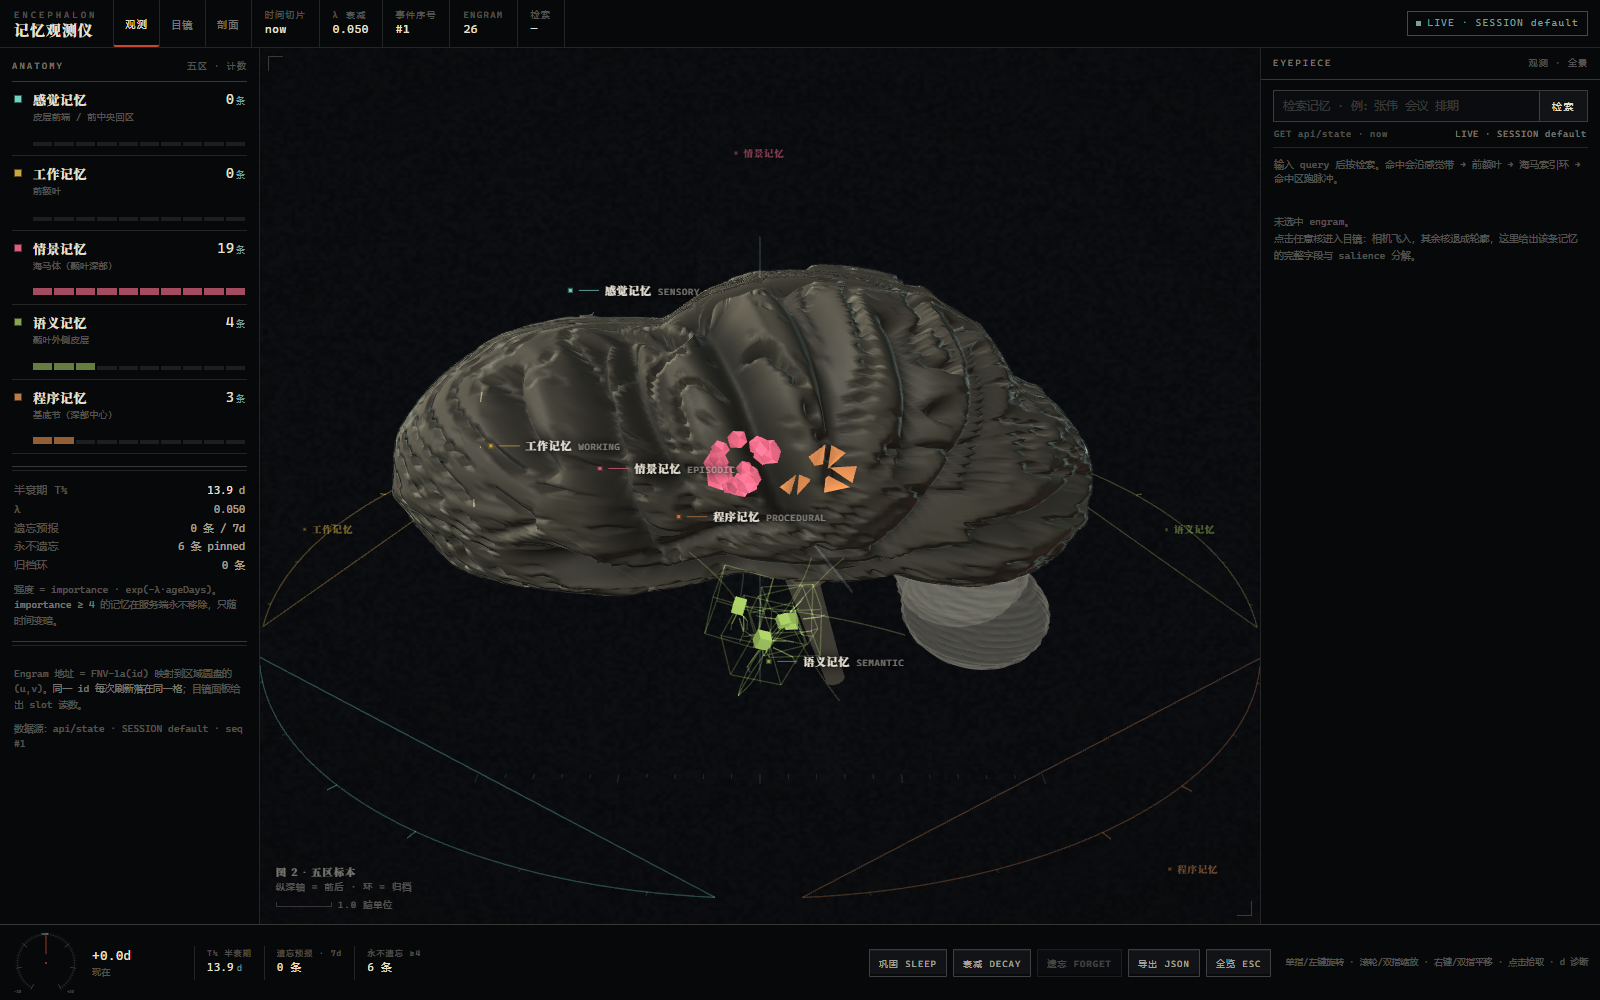
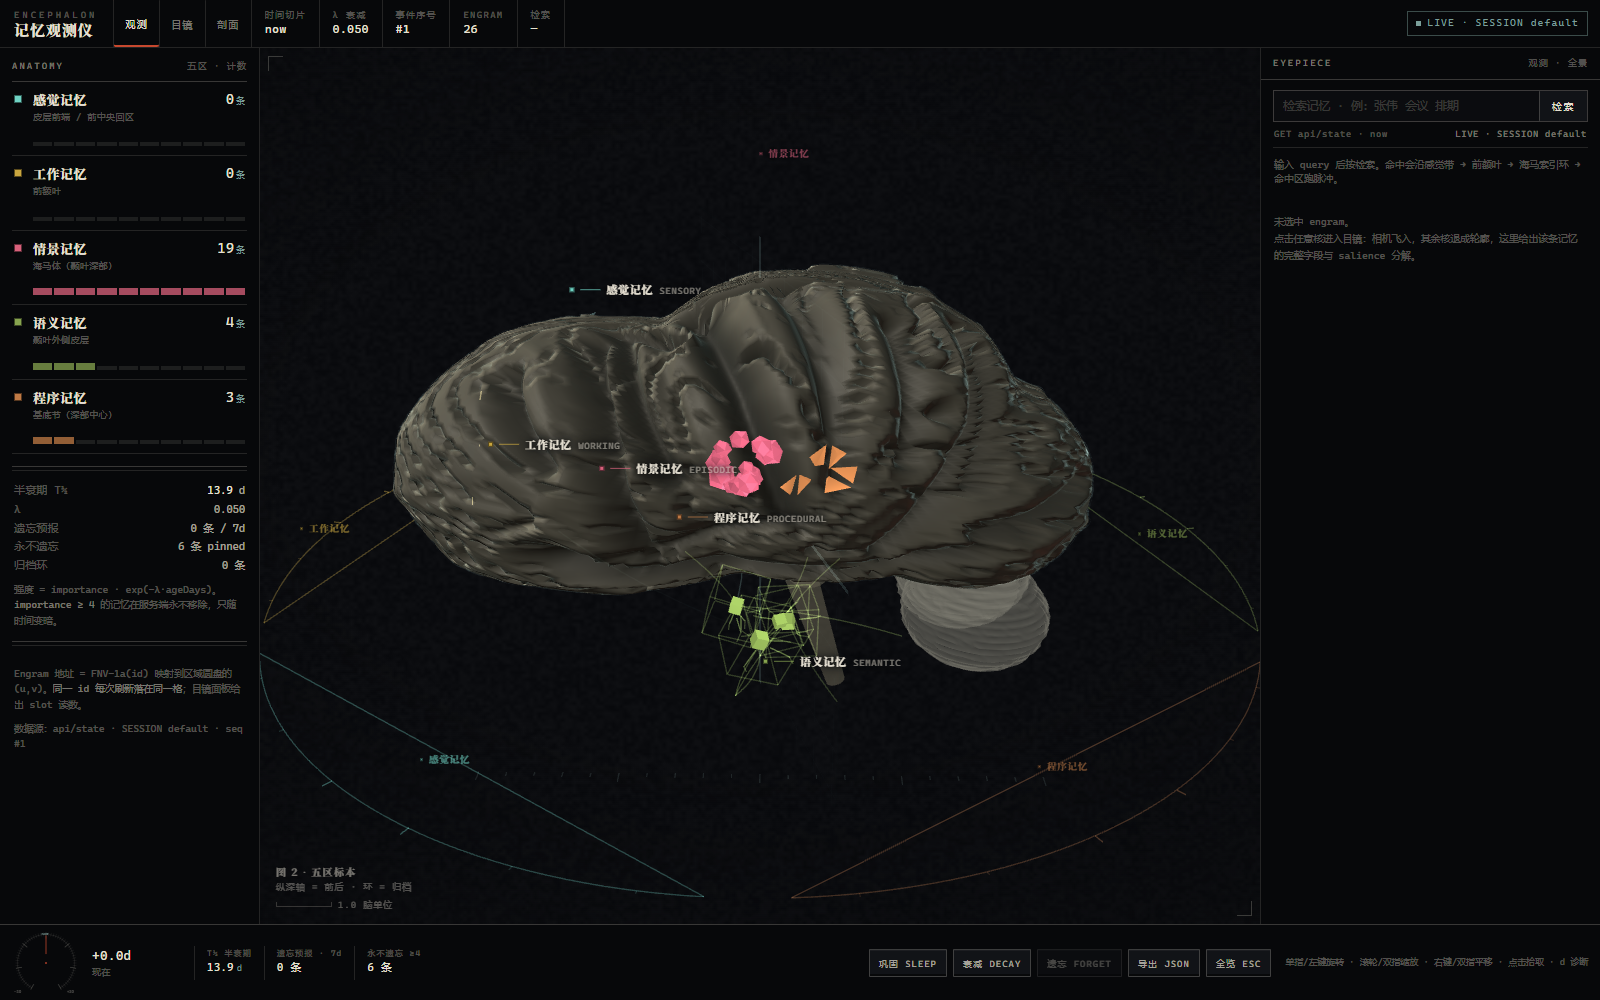
feat(3d): 扇区标签固定环位（五个常显）+ 密集事件动画预算与 toast 合并

diff --git a/dist/deepseek-brain-3d.html b/dist/deepseek-brain-3d.html
@@ -1388,6 +1388,7 @@ globalThis.THREE=Object.freeze({ACESFilmicToneMapping:nt,AddEquation:M,AddOperat
   var traces = [];
 
   function spawnTrace(path, color, delay, dur, alpha, tail, width) {
+    if (APP.animGate === false) return;
     if (!path || path.length < 2) return;
     if (traces.length > 24) traces.shift();
     traces.push({ path: path, color: color, t: -(delay || 0), dur: dur || 0.8,
@@ -1990,8 +1991,10 @@ globalThis.THREE=Object.freeze({ACESFilmicToneMapping:nt,AddEquation:M,AddOperat
 
   /* ============================== pulses (topK) ============================== */
   var pulses = [];
+  APP.animGate = true;
   function spawnPulse(path, color, size, dur, delay) {
     if (!path || path.length < 2) return;
+    if (APP.animGate === false) return;
     if (pulses.length >= PULSE_MAX) pulses.shift();
     pulses.push({ path: path, t: -(delay || 0), dur: dur || 0.55, color: color, size: size || 0.05 });
   }
@@ -2275,20 +2278,16 @@ globalThis.THREE=Object.freeze({ACESFilmicToneMapping:nt,AddEquation:M,AddOperat
       var p3 = archivePoint(mid).multiplyScalar(1 + 0.26 / TUNING.ARCHIVE_R);
       _proj.copy(p3).project(camera);
       if (_proj.z > 1) { item.el.style.opacity = '0'; return; }
-      var sx = (_proj.x * 0.5 + 0.5) * w, sy = (-_proj.y * 0.5 + 0.5) * h;
-      /* 扇区被脑体挡住时，把标签沿屏幕径向推到标本外圈，别压在沟回上 */
-      var cx = w * 0.5, cy = h * 0.52;
-      var dx = sx - cx, dy = sy - cy;
-      var dmin = Math.min(w, h) * 0.42;
-      var dcur = Math.sqrt(dx * dx + dy * dy) || 1;
-      if (dcur < dmin) {
-        var k = dmin / dcur;
-        sx = cx + dx * k; sy = cy + dy * k;
-      }
-      /* 左下角是图注区，别把标签压上去 */
-      if (sx < w * 0.40 && sy > h * 0.84) { item.el.style.opacity = '0'; return; }
-      sx = clamp(sx, 10, Math.max(10, w - 60));
-      sy = clamp(sy, 10, h - 12);
+      /* 方向来自扇区中点的投影（会跟着相机转），半径固定：
+         五个标签永远落在标本外的一圈上——不遮脑体、不互相压、不撞左下角图注 */
+      var cx = w * 0.5, cy = h * 0.50;
+      var rx = w * 0.46, ry = h * 0.40;
+      var dx = (_proj.x * 0.5 + 0.5) * w - cx;
+      var dy = (-_proj.y * 0.5 + 0.5) * h - cy;
+      if (Math.abs(dx) < 1e-3 && Math.abs(dy) < 1e-3) { dx = 0; dy = 1; }
+      var el2 = Math.sqrt((dx / rx) * (dx / rx) + (dy / ry) * (dy / ry)) || 1;
+      var sx = clamp(cx + dx / el2, 66, Math.max(66, w - 96));
+      var sy = clamp(cy + dy / el2, 30, h - 74);
       item.el.style.opacity = '0.72';
       item.el.style.transform = 'translate(' + (sx - 26).toFixed(1) + 'px,' + (sy + 8).toFixed(1) + 'px)';
     });
@@ -2305,10 +2304,29 @@ globalThis.THREE=Object.freeze({ACESFilmicToneMapping:nt,AddEquation:M,AddOperat
   /* ============================== UI: read-outs ============================== */
   function toast(msg, kind) {
     var el = $('toast');
-    el.textContent = msg;
+    var now = (window.performance && performance.now) ? performance.now() : Date.now();
+    if (now - toast._at < 300 && toast._base) {
+      toast._extra += 1;
+      el.textContent = toast._base + ' · +' + toast._extra;
+    } else {
+      toast._base = msg;
+      toast._extra = 0;
+      el.textContent = msg;
+    }
+    toast._at = now;
     el.className = 'show' + (kind ? ' ' + kind : '');
     clearTimeout(toast._t);
-    toast._t = setTimeout(function () { el.className = ''; }, 2600);
+    toast._t = setTimeout(function () { el.className = ''; toast._base = ''; }, 2600);
+  }
+
+  /* 密集事件时宁可少两段动画，也不让画面被同时起飞的 engram 与 toast 糊住 */
+  var ANIM_WINDOW_MS = 500, ANIM_MAX = 6;
+  APP.anim = { t: 0, n: 0 };
+  function animAllowed() {
+    var now = (window.performance && performance.now) ? performance.now() : Date.now();
+    if (now - APP.anim.t > ANIM_WINDOW_MS) { APP.anim.t = now; APP.anim.n = 0; }
+    APP.anim.n += 1;
+    return APP.anim.n <= ANIM_MAX;
   }
 
   function setStatus(left, right, kind) {
@@ -3176,6 +3194,11 @@ globalThis.THREE=Object.freeze({ACESFilmicToneMapping:nt,AddEquation:M,AddOperat
 
   function ingestEvent(ev, demo) {
     if (!ev || !ev.kind) return;
+    APP.animGate = animAllowed();
+    try { ingestEventInner(ev, demo); } finally { APP.animGate = true; }
+  }
+
+  function ingestEventInner(ev, demo) {
     var prefix = demo ? '演示 · ' : '';
     var kind = ev.kind;
     if (kind === 'observe') {
@@ -3224,7 +3247,7 @@ globalThis.THREE=Object.freeze({ACESFilmicToneMapping:nt,AddEquation:M,AddOperat
     } else if (kind === 'forget') {
       var rec = APP.model && APP.model.byId[ev.id];
       if (rec) {
-        APP.moving.push({ rec: rec, t: 0, dur: 1.0, from: rec.pos.clone(),
+        if (APP.moving.length < 10) APP.moving.push({ rec: rec, t: 0, dur: 1.0, from: rec.pos.clone(),
           to: archivePoint(archiveAngle(rec.layer, rec.slot.u || 0.5)), fade: true });
       }
       toast(prefix + 'forget · ' + truncate(ev.title || ev.id || '', 24));

diff --git a/web/brain-3d.html b/web/brain-3d.html
@@ -1376,6 +1376,7 @@
   var traces = [];
 
   function spawnTrace(path, color, delay, dur, alpha, tail, width) {
+    if (APP.animGate === false) return;
     if (!path || path.length < 2) return;
     if (traces.length > 24) traces.shift();
     traces.push({ path: path, color: color, t: -(delay || 0), dur: dur || 0.8,
@@ -1978,8 +1979,10 @@
 
   /* ============================== pulses (topK) ============================== */
   var pulses = [];
+  APP.animGate = true;
   function spawnPulse(path, color, size, dur, delay) {
     if (!path || path.length < 2) return;
+    if (APP.animGate === false) return;
     if (pulses.length >= PULSE_MAX) pulses.shift();
     pulses.push({ path: path, t: -(delay || 0), dur: dur || 0.55, color: color, size: size || 0.05 });
   }
@@ -2263,20 +2266,16 @@
       var p3 = archivePoint(mid).multiplyScalar(1 + 0.26 / TUNING.ARCHIVE_R);
       _proj.copy(p3).project(camera);
       if (_proj.z > 1) { item.el.style.opacity = '0'; return; }
-      var sx = (_proj.x * 0.5 + 0.5) * w, sy = (-_proj.y * 0.5 + 0.5) * h;
-      /* 扇区被脑体挡住时，把标签沿屏幕径向推到标本外圈，别压在沟回上 */
-      var cx = w * 0.5, cy = h * 0.52;
-      var dx = sx - cx, dy = sy - cy;
-      var dmin = Math.min(w, h) * 0.42;
-      var dcur = Math.sqrt(dx * dx + dy * dy) || 1;
-      if (dcur < dmin) {
-        var k = dmin / dcur;
-        sx = cx + dx * k; sy = cy + dy * k;
-      }
-      /* 左下角是图注区，别把标签压上去 */
-      if (sx < w * 0.40 && sy > h * 0.84) { item.el.style.opacity = '0'; return; }
-      sx = clamp(sx, 10, Math.max(10, w - 60));
-      sy = clamp(sy, 10, h - 12);
+      /* 方向来自扇区中点的投影（会跟着相机转），半径固定：
+         五个标签永远落在标本外的一圈上——不遮脑体、不互相压、不撞左下角图注 */
+      var cx = w * 0.5, cy = h * 0.50;
+      var rx = w * 0.46, ry = h * 0.40;
+      var dx = (_proj.x * 0.5 + 0.5) * w - cx;
+      var dy = (-_proj.y * 0.5 + 0.5) * h - cy;
+      if (Math.abs(dx) < 1e-3 && Math.abs(dy) < 1e-3) { dx = 0; dy = 1; }
+      var el2 = Math.sqrt((dx / rx) * (dx / rx) + (dy / ry) * (dy / ry)) || 1;
+      var sx = clamp(cx + dx / el2, 66, Math.max(66, w - 96));
+      var sy = clamp(cy + dy / el2, 30, h - 74);
       item.el.style.opacity = '0.72';
       item.el.style.transform = 'translate(' + (sx - 26).toFixed(1) + 'px,' + (sy + 8).toFixed(1) + 'px)';
     });
@@ -2293,10 +2292,29 @@
   /* ============================== UI: read-outs ============================== */
   function toast(msg, kind) {
     var el = $('toast');
-    el.textContent = msg;
+    var now = (window.performance && performance.now) ? performance.now() : Date.now();
+    if (now - toast._at < 300 && toast._base) {
+      toast._extra += 1;
+      el.textContent = toast._base + ' · +' + toast._extra;
+    } else {
+      toast._base = msg;
+      toast._extra = 0;
+      el.textContent = msg;
+    }
+    toast._at = now;
     el.className = 'show' + (kind ? ' ' + kind : '');
     clearTimeout(toast._t);
-    toast._t = setTimeout(function () { el.className = ''; }, 2600);
+    toast._t = setTimeout(function () { el.className = ''; toast._base = ''; }, 2600);
+  }
+
+  /* 密集事件时宁可少两段动画，也不让画面被同时起飞的 engram 与 toast 糊住 */
+  var ANIM_WINDOW_MS = 500, ANIM_MAX = 6;
+  APP.anim = { t: 0, n: 0 };
+  function animAllowed() {
+    var now = (window.performance && performance.now) ? performance.now() : Date.now();
+    if (now - APP.anim.t > ANIM_WINDOW_MS) { APP.anim.t = now; APP.anim.n = 0; }
+    APP.anim.n += 1;
+    return APP.anim.n <= ANIM_MAX;
   }
 
   function setStatus(left, right, kind) {
@@ -3164,6 +3182,11 @@
 
   function ingestEvent(ev, demo) {
     if (!ev || !ev.kind) return;
+    APP.animGate = animAllowed();
+    try { ingestEventInner(ev, demo); } finally { APP.animGate = true; }
+  }
+
+  function ingestEventInner(ev, demo) {
     var prefix = demo ? '演示 · ' : '';
     var kind = ev.kind;
     if (kind === 'observe') {
@@ -3212,7 +3235,7 @@
     } else if (kind === 'forget') {
       var rec = APP.model && APP.model.byId[ev.id];
       if (rec) {
-        APP.moving.push({ rec: rec, t: 0, dur: 1.0, from: rec.pos.clone(),
+        if (APP.moving.length < 10) APP.moving.push({ rec: rec, t: 0, dur: 1.0, from: rec.pos.clone(),
           to: archivePoint(archiveAngle(rec.layer, rec.slot.u || 0.5)), fade: true });
       }
       toast(prefix + 'forget · ' + truncate(ev.title || ev.id || '', 24));

diff --git a/README.md b/README.md
@@ -273,7 +273,7 @@ ASCII 脑图（见第 3 节）+ 健康面板：总记忆数、本周新增、遗
 - **纤维追踪 TRACTOGRAPHY**：力导向的语义纤维束，主体/客体分级着色，`[已修正]` 用虚线束；右侧实体档案按度数排序，点实体列出它的全部事实；再下方是**废弃事实面板**——按「主体 → 关系」聚合被修正的旧值，每个槽位保留最近 1 条，多出来的点一下就软归档到 `archive.json`（可先看「可归档 K 条」再动手）。
 - **衰减实验 DECAY LAB**：左侧时间转盘（±30 天）真的会 `GET /api/state?at=`，右侧强度曲线族按当前 λ 画出每条记忆的衰减轨迹与阈值穿越点，右下是遗忘预报清单（按 `forgetInDays` 升序）。
 
-底部是控制台与**活动记录**：每一次 `observe / recall / remember / correct / forget / consolidate / decay` 都带 `seq` 落在这里（3D 页优先用 `GET /api/events` 的 SSE 推送：`ActivityLog.subscribe()` 一有事件就写帧，实测端到端约 80 ms；没有 `EventSource` 或端点缺失时自动退回 1 秒轮询），一行一条（例如 `#001 22:39:22 检索「张伟 会议 排期」· 3 命中 · 3ms`）。
+底部是控制台与**活动记录**：每一次 `observe / recall / remember / correct / forget / consolidate / decay` 都带 `seq` 落在这里（3D 页优先用 `GET /api/events` 的 SSE 推送：`ActivityLog.subscribe()` 一有事件就写帧，实测端到端约 80 ms；没有 `EventSource` 或端点缺失时自动退回 1 秒轮询。密集事件有预算：500 ms 内最多 6 段动画、同时最多 10 个 engram 在飞，`toast` 300 ms 内的连续提示折成「首条 · +N」），一行一条（例如 `#001 22:39:22 检索「张伟 会议 排期」· 3 命中 · 3ms`）。
 
 API 挂在 `/deepseek-brain/api/*`，契约见 [`docs/API.md`](docs/API.md)：
 
@@ -333,7 +333,7 @@ node tools/build-3d.mjs      # 生成 dist/deepseek-brain-3d.html
 | 顶栏 `事件序号`、观测条脉冲 | `GET /api/activity?since=` 的增量：Agent 每次检索/写入/遗忘都在标本上打出一次脉冲 |
 | 检索台 | 真的 `POST /api/recall`，命中项按 `score` 亮起并连出白质纤维束 |
 | 「睡眠 / 衰减 / 遗忘」压印按钮 | 真的 `POST /api/sleep`、`/api/decay`、`/api/forget`，迁移与归档在标本上留下路径与残影 |
-| 归档环里的往返 | 底板外环按五层切成五段扇区（每段用该层染料，扇区中点常显「感觉 / 工作 / 情景 / 语义 / 程序」小字），`forget` / `decay` 让 engram 缩着飞向**自己那一段**；`restore` 沿同一路径长回来，`undo` 再反向飞出去——落点由 `archiveAngle(layer, slot.u)` 决定，不是随机角度 |
+| 归档环里的往返 | 底板外环按五层切成五段扇区（每段用该层染料，扇区中点常显「感觉 / 工作 / 情景 / 语义 / 程序」小字——标签方向跟着相机转，但半径固定在标本外圈，所以任何方位角下五个都在、互不遮挡），`forget` / `decay` 让 engram 缩着飞向**自己那一段**；`restore` 沿同一路径长回来，`undo` 再反向飞出去——落点由 `archiveAngle(layer, slot.u)` 决定，不是随机角度 |
 
 **三种模式**：`观测`（全景标本）、`目镜`（选中单条记忆的切片）、`剖面`（切开半球看深部结构）。
 

diff --git a/docs/API.md b/docs/API.md
@@ -259,6 +259,7 @@ data: {"seq":12,"events":[{ "seq":12, "kind":"remember", "title":"…", … }]}
 
 - `since` 沿用 `/api/activity` 的序号语义；断线重连时带上最后一次的 `seq` 即可，不会重复也不会漏。
 - 无新事件时每 15 s 发一个 `: ping` 注释帧保活；客户端关闭时服务端自动退订并清掉定时器。
+- 密集写入时服务端按 40 ms 合批，一帧可带多条事件；前端对超出动画预算的部分只更新数字（500 ms / 6 段）。
 - 前端应优先用它，拿不到 `EventSource` 时退回 1 秒一次的 `/api/activity` 轮询。
 
 `GET /api/health` → `{ ok, version, dataDir, counts, backups:{count,newest}, vector:{enabled,provider,dim,indexed,warning}, warnings }`
